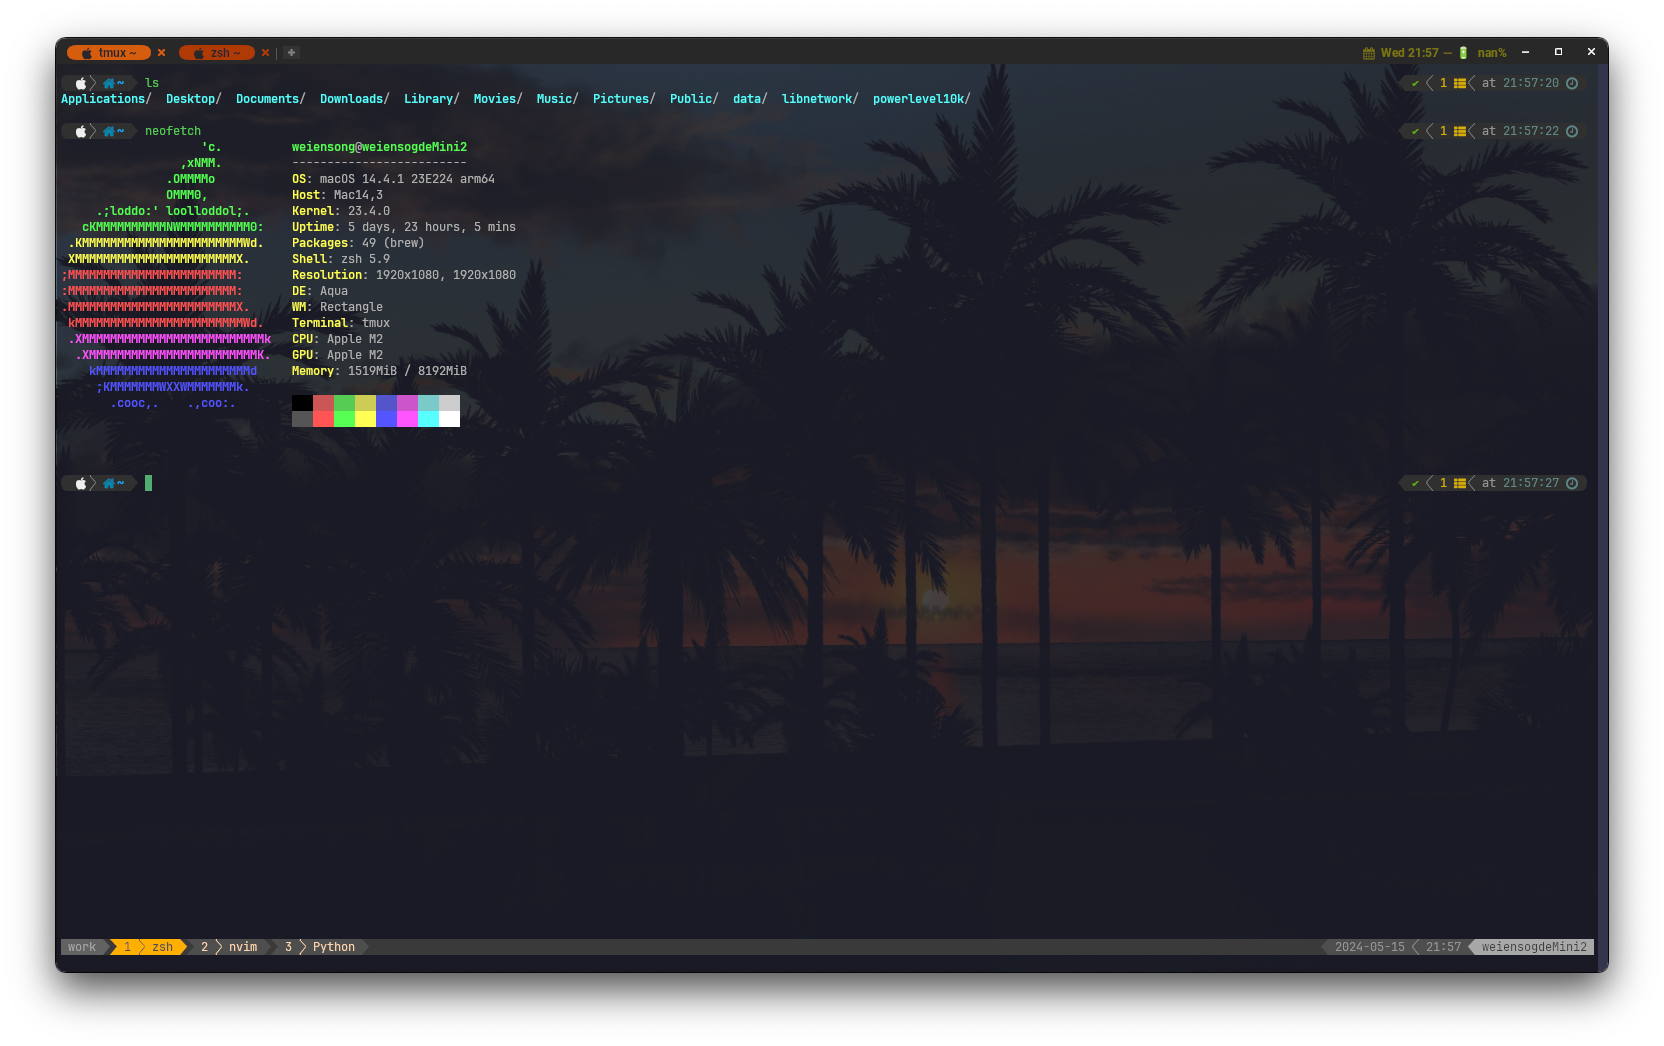
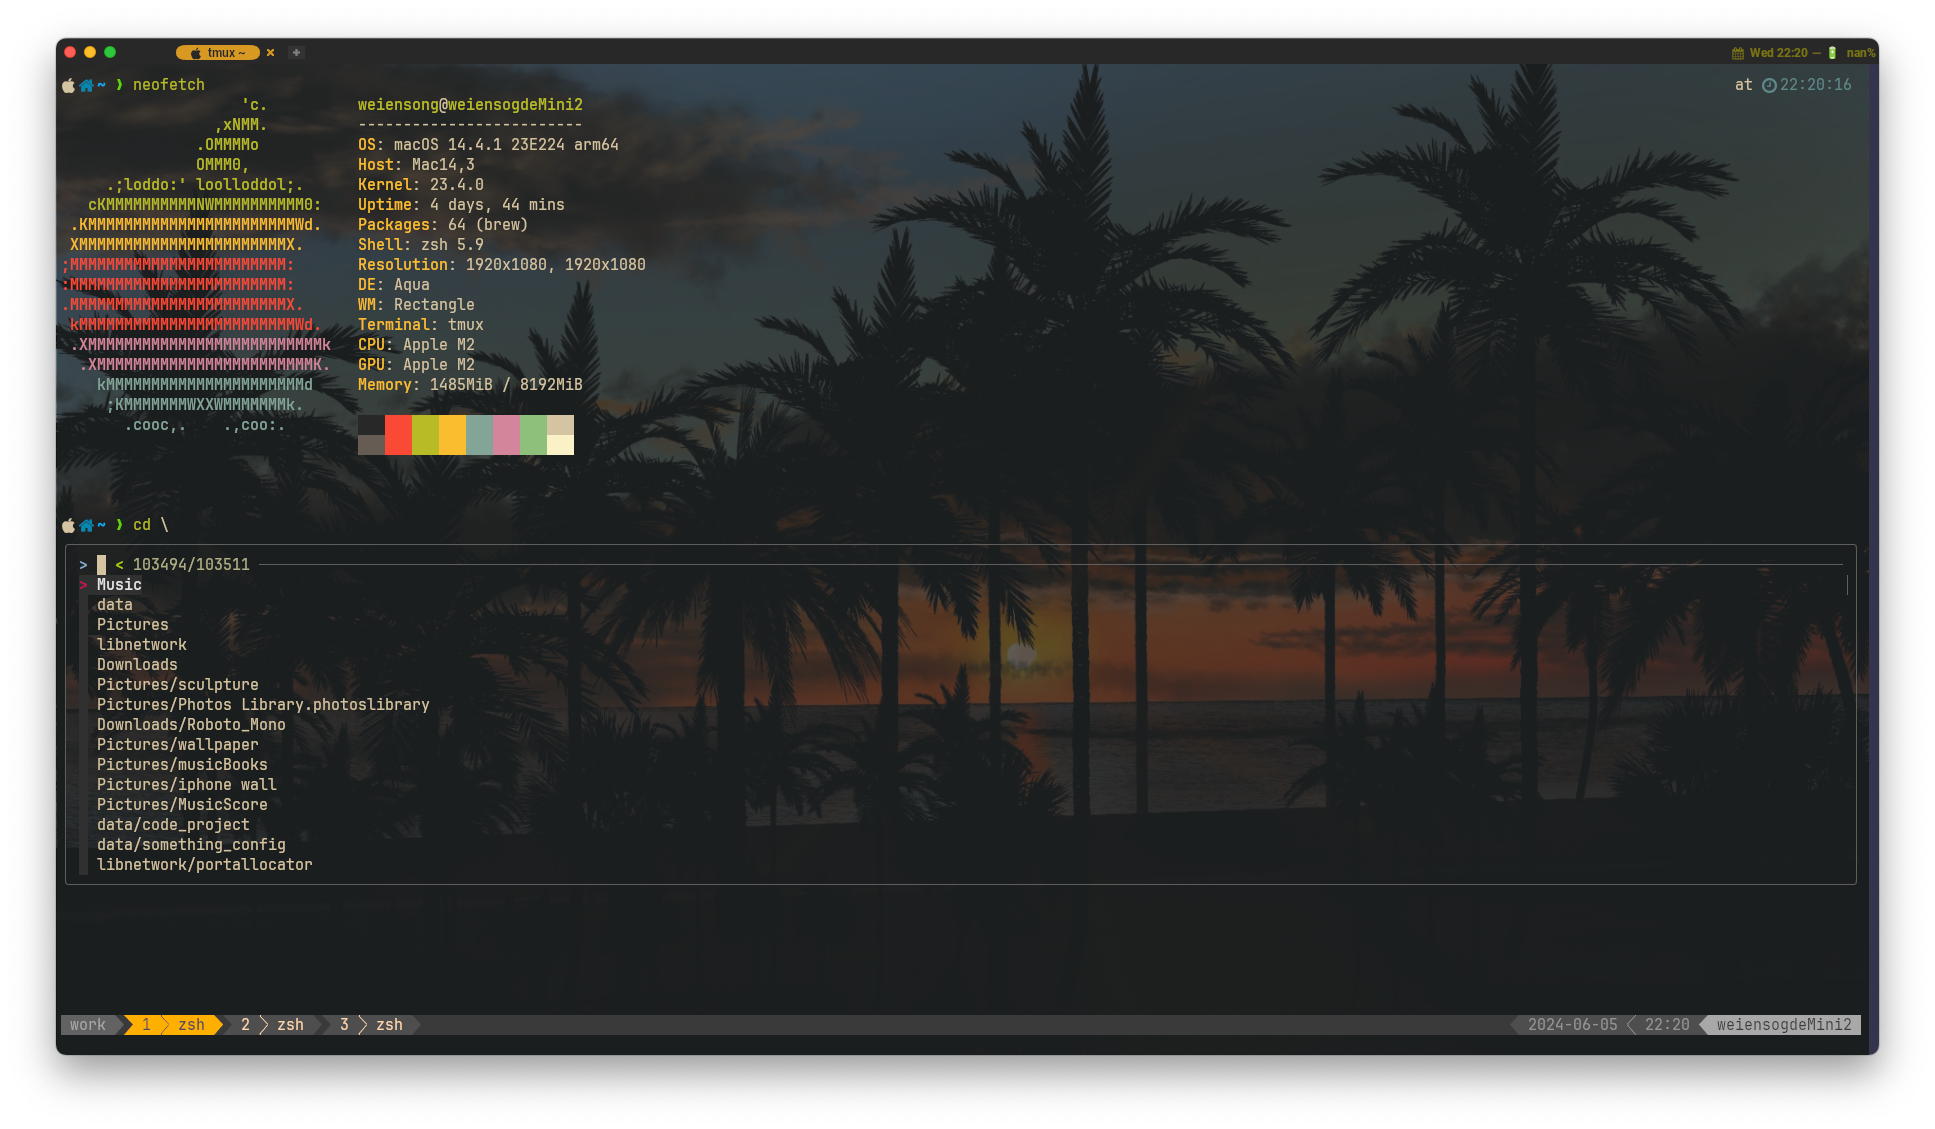
preview img (#2)
* docs: update preview for mac

* docs: ubuntu preview

diff --git a/README.md b/README.md
@@ -2,7 +2,7 @@
 
 ## preview
 ![preview](./preview/mac.png) 
-![preview](./preview/ubuntu.png) 
+![preview](./preview/ubuntu_preview.png) 
 
 ## Usege
 ```shell
